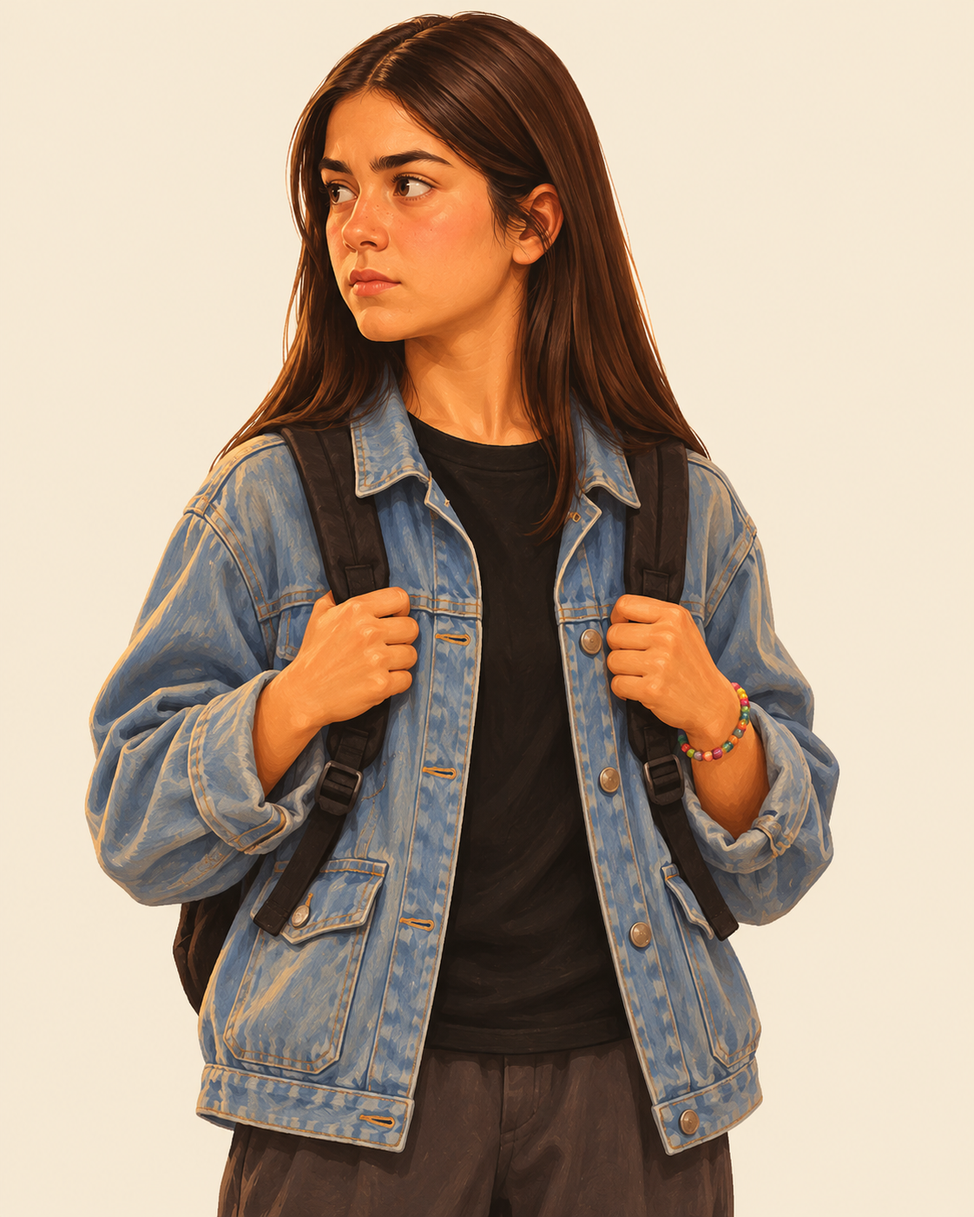
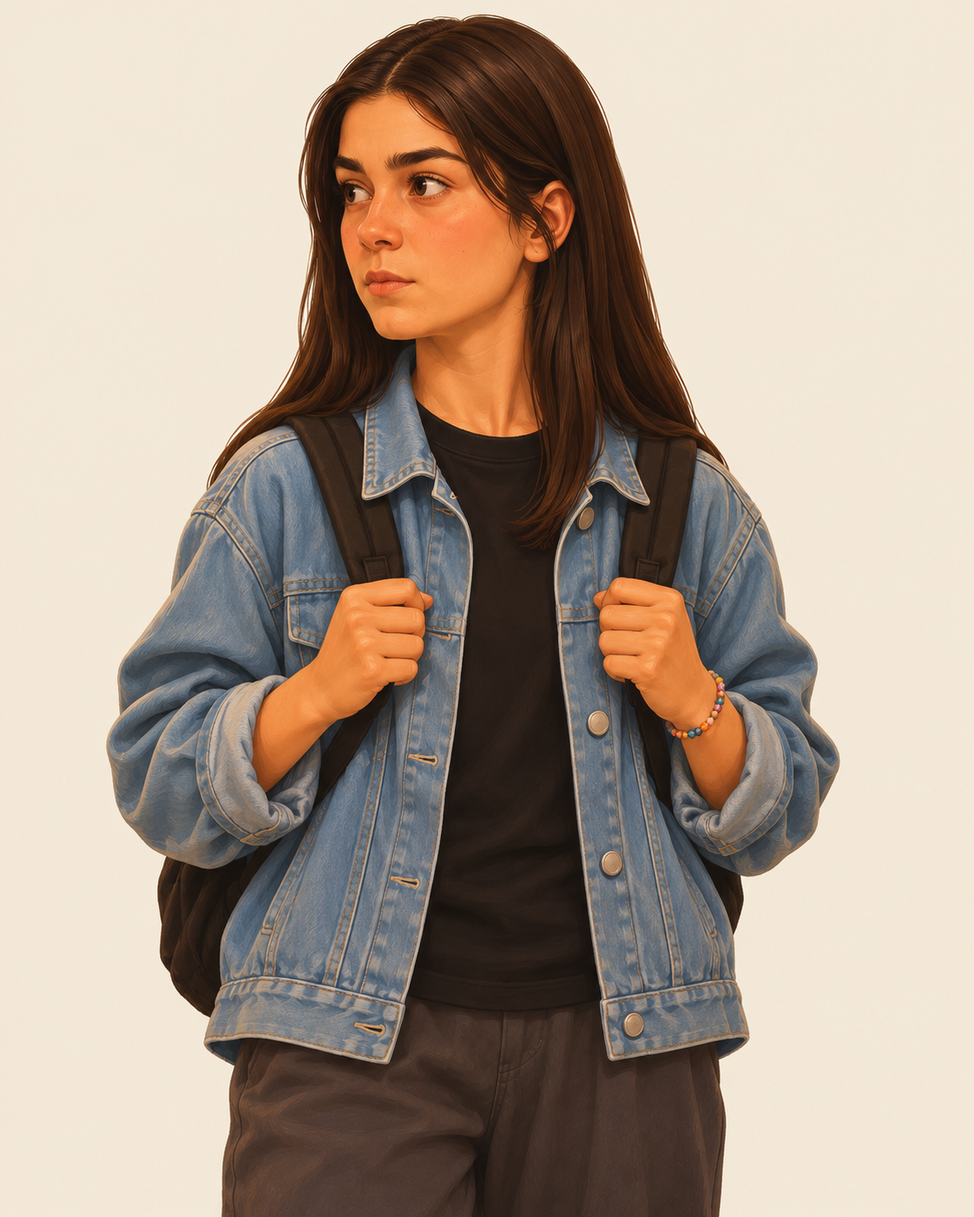
Gün sonu: kurulum notu (Oğuz Bey'in bilgisayarı: klasör yapısı, Codex ayarı, red/ kopyası), kumaş dersi §11, DURUM/DEVIR güncel; G6/G18 onaylı

Changed region(s): [[0.0624, 0.0, 0.8734, 1.0], [0.5615, 0.9508, 0.5927, 1.0]]

diff --git a/uretim/v6/kayit/kol1.md b/uretim/v6/kayit/kol1.md
@@ -40,3 +40,5 @@
 | G46 | image_gen / model bildirilmedi | Birinci referans görseldeki kişinin (Haldun Bey) AYNISI: aynı yüz, saç, kıyafet ve takılar; aynı çizim tarzı, aynı düz açık bej arka plan, aynı ölçek ve kadraj. Değişen yalnız poz ve ifade.<br><br>Poz: TAM İKİ KOL, İKİ EL. Sağ eli açık, avucu yukarı, göğüs hizasında ("saklayacak bir şeyim yok"); sol eli gövdesinin yanında. Elleri boş.<br><br>Başın açısı: burnu kadrajın soluna bakıyor; yüzü üç çeyrek, iki göz de görünüyor. Gözler kadrajın soluna, yatay bakıyor; yukarı, aşağı ya da kameraya değil. Profil değil: uzaktaki göz de açıkça görünüyor.<br><br>İfade: dertli, sıkışmış, savunmada; kaşları içten yukarı, alnında ince ter damlaları, dudakları gergin.<br><br>Bu ifadeyi haldun.normal'den ayıran: alnı terli, kaşlar kalkık ve dertli; eli avucu yukarı açık.<br><br>Saçın dış çizgisi toplu ve net: arka plana taşan ince tek teller, havada kıvrılan uçlar yok.<br><br>Kadraj: DİKEY 4:5. Tek kişi, ayakta, kadrajın ortasında. Uyluk ortasından yukarısı; başın tepesinin üstünde ince bir boşluk. Arka plan: düz, tek renk açık bej; gölgesiz, dokusuz, lekesiz, renk geçişi yok (bilgisayarda doldurulmuş tek renk gibi); hiçbir nesne yok.<br><br>Çıplaklık yok.<br><br>Görselde hiçbir yazı, harf, rakam, logo ya da etiket olmasın.<br><br>Görselin oranı TAM 4:5, dikey (1122×1402). | 1. onayli/G5.png | 1122×1402; kalite bildirilmedi | Evet | Başarılı; uretilen/G46.png; 2026-11-13 |
 | G18 | image_gen / model bildirilmedi | Birinci referans Cengo'nun onaylı eski resmidir: yüz, koyu dalgalı dağınık saç, kısa sakal, boyalı çizim tarzı, sıcak ışık ve renkler ONUN GİBİ olsun. Oradaki kıyafeti (haki ceket, gri tişört) ve pozu ALMA. Bu resim katalog ya da moda çizimi DEĞİL: kalın siyah kontur, düz boya, soğuk stüdyo ışığı yok; birinci referanstaki gibi boyalı, sıcak, dokulu. Aynı düz açık bej arka plan, aynı ölçek ve kadraj.<br><br>İkinci referans kıyafet kartıdır: YALNIZ kıyafetin kesimi, boyu ve rengi içindir; kartın çizim tarzını, ışığını, yüzünü ve pozunu ALMA.<br><br>Cengo: otuzlarının ortasında, uzun boylu, yakışıklı, genelde dağınık bir adam; bugün ilk kez özenle giyinmiş, biraz da gergin.<br><br>Kıyafet: kart referansındaki ütülü hâl: açık mavi, kolalı, düğmeleri boğaza kadar ilikli gömlek pantolonun içinde; koyu lacivert kumaş pantolon, kahverengi deri kemer; göğüs cebinde telefonun üst kenarı. Saçı yana TARANMIŞ ama gür ve dalgalı. Kadrajın SAĞ tarafında kalan bileğinde renkli boncuklu, ucuz, çocuk işi bileklik. Ceket YOK, kravat YOK.<br><br>Poz: TAM İKİ KOL, İKİ EL. Bir eli gömleğin yakasını düzeltir gibi boynunda, öbür eli gövdesinin yanında gevşek. Elleri boş.<br><br>Başın açısı: burnu kadrajın soluna bakıyor; yüzü üç çeyrek, iki göz de görünüyor. Gözler kadrajın soluna, yatay bakıyor; yukarı, aşağı ya da kameraya değil. Profil değil: uzaktaki göz de açıkça görünüyor.<br><br>İfade: hafif gergin ama sıcak; dudakları kapalı, utangaç bir yarım gülümseme.<br><br>Kadraj: DİKEY 4:5. Tek kişi, ayakta, kadrajın ortasında. Uyluk ortasından yukarısı; başın tepesinin üstünde ince bir boşluk. Arka plan: düz, tek renk açık bej; gölgesiz, dokusuz, lekesiz, renk geçişi yok (bilgisayarda doldurulmuş tek renk gibi); hiçbir nesne yok.<br><br>Çıplaklık yok.<br><br>Son referans YALNIZ bitmiş çizim tarzı örneğidir: boya dokusu, ince kontur, yumuşak gölgeler, yüz çiziminin gerçekçiliği, renkler ve ölçek onun gibi olsun. Oradaki kişinin yüzünü, saçını, kıyafetini ve pozunu ALMA. Karikatür değil: doğal yüz oranları, abartısız ifade.<br><br>Görselde hiçbir yazı, harf, rakam, logo ya da etiket olmasın.<br><br>Görselin oranı TAM 4:5, dikey (1122×1402).<br><br>Sahibi buldu (13 Kasım): gömlek her yerde küçük köşeli kırışıklarla, buruşturulmuş kâğıt/folyo gibi çıktı; oysa bu ÜTÜLÜ, kolalı gömlek. Gömlek kusursuz ütülü, PÜRÜZSÜZ ve kolalı, ikinci referanstaki kart gibi; kırışık yok, kâğıt ya da folyo dokusu yok; yalnız koltuk altında ve dirsekte hafif doğal kıvrım. Yüz, tarz, poz ve ifade aynı. | 1. ../v3/onayli/G4.png; 2. onayli/G2.png; 3. ../referanslar/tarz_ornek_erkek.jpg | 1122×1402; kalite bildirilmedi | Evet; İstem ve Düzeltme 1 aynen | 2026-11-13: başarılı; uretilen/G18.png |
 | G18 | image_gen / model bildirilmedi | Birinci referans Cengo'nun onaylı eski resmidir: yüz, koyu dalgalı dağınık saç, kısa sakal, boyalı çizim tarzı, sıcak ışık ve renkler ONUN GİBİ olsun. Oradaki kıyafeti (haki ceket, gri tişört) ve pozu ALMA. Bu resim katalog ya da moda çizimi DEĞİL: kalın siyah kontur, düz boya, soğuk stüdyo ışığı yok; birinci referanstaki gibi boyalı, sıcak, dokulu. Aynı düz açık bej arka plan, aynı ölçek ve kadraj.<br><br>İkinci referans kıyafet kartıdır: YALNIZ kıyafetin kesimi, boyu ve rengi içindir; kartın çizim tarzını, ışığını, yüzünü ve pozunu ALMA.<br><br>Cengo: otuzlarının ortasında, uzun boylu, yakışıklı, genelde dağınık bir adam; bugün ilk kez özenle giyinmiş, biraz da gergin.<br><br>Kıyafet: kart referansındaki ütülü hâl: açık mavi, kolalı, düğmeleri boğaza kadar ilikli gömlek pantolonun içinde; koyu lacivert kumaş pantolon, kahverengi deri kemer; göğüs cebinde telefonun üst kenarı. Saçı yana TARANMIŞ ama gür ve dalgalı. Kadrajın SAĞ tarafında kalan bileğinde renkli boncuklu, ucuz, çocuk işi bileklik. Ceket YOK, kravat YOK.<br><br>Poz: TAM İKİ KOL, İKİ EL. Bir eli gömleğin yakasını düzeltir gibi boynunda, öbür eli gövdesinin yanında gevşek. Elleri boş.<br><br>Başın açısı: burnu kadrajın soluna bakıyor; yüzü üç çeyrek, iki göz de görünüyor. Gözler kadrajın soluna, yatay bakıyor; yukarı, aşağı ya da kameraya değil. Profil değil: uzaktaki göz de açıkça görünüyor.<br><br>İfade: hafif gergin ama sıcak; dudakları kapalı, utangaç bir yarım gülümseme.<br><br>Kadraj: DİKEY 4:5. Tek kişi, ayakta, kadrajın ortasında. Uyluk ortasından yukarısı; başın tepesinin üstünde ince bir boşluk. Arka plan: düz, tek renk açık bej; gölgesiz, dokusuz, lekesiz, renk geçişi yok (bilgisayarda doldurulmuş tek renk gibi); hiçbir nesne yok.<br><br>Çıplaklık yok.<br><br>Son referans YALNIZ bitmiş çizim tarzı örneğidir: boya dokusu, ince kontur, yumuşak gölgeler, yüz çiziminin gerçekçiliği, renkler ve ölçek onun gibi olsun. Oradaki kişinin yüzünü, saçını, kıyafetini ve pozunu ALMA. Karikatür değil: doğal yüz oranları, abartısız ifade.<br><br>Görselde hiçbir yazı, harf, rakam, logo ya da etiket olmasın.<br><br>Görselin oranı TAM 4:5, dikey (1122×1402).<br><br>Sahibi buldu (13 Kasım): gömlek her yerde küçük köşeli kırışıklarla, buruşturulmuş kâğıt/folyo gibi çıktı; oysa bu ÜTÜLÜ, kolalı gömlek. Gömlek kusursuz ütülü, PÜRÜZSÜZ ve kolalı, ikinci referanstaki kart gibi; kırışık yok, kâğıt ya da folyo dokusu yok; yalnız koltuk altında ve dirsekte hafif doğal kıvrım. Yüz, tarz, poz ve ifade aynı.<br><br>Sahibi (13 Kasım): saç birinci referanstaki gibi KOYU kahve, siyaha yakın olsun; sıcak ışık saçın rengini AÇMASIN, kızıla çalan açık kahve değil. Gömlek pürüzsüz ütülü kalsın ve gömlekte fırça darbesi bir tık daha AZ olsun: düz, yumuşak geçişli kumaş; boya dokusu yüzde ve saçta. Yüz, tarz, poz ve ifade aynı. | 1. ../v3/onayli/G4.png; 2. onayli/G2.png; 3. ../referanslar/tarz_ornek_erkek.jpg | 1122×1402; kalite bildirilmedi | Evet; İstem ve Düzeltme 1–2 aynen | 2026-11-13: başarılı; uretilen/G18.png |
+| G6 | image_gen / model bildirilmedi | Yarı gerçekçi dijital illüstrasyon, boyalı görsel roman karakter çizimi. Gerçek insan oranları, ama fotoğraf değil: belirgin, temiz kontur çizgileri, yumuşak boyalı gölgeler, sıcak ve canlı renkler. Animasyon filmi afişi ile modern çizgi roman arası bir tarz. Anime değil, çocuk çizgi filmi değil, fotoğraf değil.<br><br>Birinci referans YALNIZ ölçek ve kadraj içindir. Başı bilerek silindi: yüzü sıfırdan, aşağıdaki tarife göre çiz; referanstaki kişinin bedenini, kıyafetini ve POZUNU alma. İkinci referans YALNIZ çizim tarzı içindir: genç bir yüz ONUN GİBİ boyansın: sıcak ten tonları, yumuşak boyalı gölgeler, ince kontur, canlı ama doğal renkler; oradaki kişinin yüzünü, saçını, kıyafetini ve pozunu ALMA. Bu yepyeni, kimseye benzemeyen bir kişi.<br><br>Eylül: on altı yaşında bir lise öğrencisi, Cengo'nun kızı. Boyu ortalama, ince, genç bir kız; yüzü yuvarlakça ve taze. Uzun, DÜZ, koyu kahve saç, açık, omuzlarının altına iniyor; ortadan ayrılmış. Koyu kahve gözler, kalın düz kaşlar (babasınınkiler gibi), makyajsız. Kıyafeti: açık mavi, bol kesim kot ceket, önü açık; altında yuvarlak yakalı, boğazı kapalı, düz SİYAH tişört; koyu gri, bol kesim düz pantolon. Sırtında küçük siyah sırt çantası, iki askısı omuzlarında. Kadrajın SAĞ tarafında kalan bileğinde renkli boncuklu, ucuz, çocuk işi bir bileklik. Küpe, kolye YOK. Defne'ye (uzun KIVIRCIK koyu saçlı yetişkin bir kadın) benzemiyor; Gizem'e (bal rengi kâküllü saç, çil) ve Dilek'e (kısa küt siyah kâküllü saç) benzemiyor.<br><br>Eylül on altı yaşında bir lise öğrencisidir: yaşına uygun, sade, gündelik bir duruş; makyaj yok; kıyafeti kapalı ve bol.<br><br>Poz: TAM İKİ KOL, İKİ EL. İki eli sırt çantasının askılarını göğüs hizasında tutuyor; elleri boş, başka nesne yok.<br><br>Başın açısı: burnu kadrajın soluna bakıyor; yüzü üç çeyrek, iki göz de görünüyor. Gözler kadrajın soluna, yatay bakıyor; yukarı, aşağı ya da kameraya değil. Profil değil: uzaktaki göz de açıkça görünüyor.<br><br>İfade: ciddi, kararlı, biraz çekingen; dudakları kapalı. Bir derdi var ama dimdik duruyor.<br><br>Işık sıcak ve yumuşak, yüzünde hafif altın bir ton; resim soluk ya da fotoğraf gibi değil, öbür konuklarla aynı boyalı illüstrasyon.<br><br>Saçın dış çizgisi toplu ve net: arka plana taşan ince tek teller, havada kıvrılan uçlar yok.<br><br>Kadraj: DİKEY 4:5. Tek kişi, ayakta, kadrajın ortasında. Uyluk ortasından yukarısı; başın tepesinin üstünde ince bir boşluk. Arka plan: düz, tek renk açık bej; gölgesiz, dokusuz, lekesiz, renk geçişi yok (bilgisayarda doldurulmuş tek renk gibi); hiçbir nesne yok.<br><br>Çıplaklık yok.<br><br>Son referans YALNIZ bitmiş çizim tarzı örneğidir: boya dokusu, ince kontur, yumuşak gölgeler, yüz çiziminin gerçekçiliği, renkler ve ölçek onun gibi olsun. Oradaki kişinin yüzünü, saçını, kıyafetini ve pozunu ALMA. Karikatür değil: doğal yüz oranları, abartısız ifade.<br><br>Görselde hiçbir yazı, harf, rakam, logo ya da etiket olmasın.<br><br>Görselin oranı TAM 4:5, dikey (1122×1402).<br><br>arac_tarz.py ŞÜPHELİ (tarz puanı +0,011; çapa konuk en düşük +0,040): hâlâ fazla gerçekçi ve soluk. Çizim tarzı belirgin biçimde BOYALI olsun: görünür yumuşak fırça darbeleri, dokulu boya, sıcak altın ışık, canlı ama doğal renkler; ikinci referanstaki Dilek gibi bir illüstrasyon, fotoğraf gerçekçiliğinde DEĞİL. Yüz, saç, kıyafet ve poz aynı kalsın.<br><br>Tarz bir adım daha eski konuklara (Gizem, Defne) yaklaşsın: daha pürüzsüz, parlak, yumuşak geçişli boya; cilt dokusu (gözenek, çil) çok az; sıcak altın ışık. Yüz, saç, kıyafet ve poz aynı; makyaj yine YOK, yaşına uygun sade.<br><br>Sahibi (13 Kasım, G18 ayarıyla): kot ceket ve pantolonda fırça dokusu bir tık AZ; kumaş pürüzsüz, yumuşak geçişli (köşeli zikzak fırça izi yok). Boya dokusu yüzde ve saçta kalsın. Saç koyu kahve, sıcak ışık saçı açmasın. Yüz, poz, ifade aynı; makyaj yok. | 1. ../referanslar/tarz_govde_kadin.jpg; 2. onayli/G8.png; 3. ../referanslar/tarz_ornek_kadin.jpg | 1122×1402; kalite bildirilmedi | Evet; İstem ve Düzeltme 1–3 aynen | 2026-11-13: başarılı; uretilen/G6.png |
+| G42 | image_gen / model bildirilmedi | Birinci referans görseldeki kişinin (Eylül) AYNISI: aynı yüz, saç, kıyafet ve takılar; aynı çizim tarzı, aynı düz açık bej arka plan, aynı ölçek ve kadraj. Değişen yalnız poz ve ifade.<br><br>Eylül on altı yaşında bir lise öğrencisidir: yaşına uygun, sade, gündelik bir duruş; makyaj yok; kıyafeti kapalı ve bol.<br><br>Poz: TAM İKİ KOL, İKİ EL. İki kolu öne, yarı açık, sarılmaya gidecekmiş gibi; sırt çantası sırtında. Elleri boş.<br><br>Başın açısı: burnu kadrajın soluna bakıyor; yüzü üç çeyrek, iki göz de görünüyor. Gözler kadrajın soluna, yatay bakıyor; yukarı, aşağı ya da kameraya değil. Profil değil: uzaktaki göz de açıkça görünüyor.<br><br>İfade: sevinçli, heyecanlı, gözleri parlıyor; geniş, içten, çocuksu bir gülüş.<br><br>Bu ifadeyi eylul.gulen'den ayıran: kollar açık, coşkulu, babasını görmenin sevinci; daha büyük bir gülüş.<br><br>Saçın dış çizgisi toplu ve net: arka plana taşan ince tek teller, havada kıvrılan uçlar yok.<br><br>Kadraj: DİKEY 4:5. Tek kişi, ayakta, kadrajın ortasında. Uyluk ortasından yukarısı; başın tepesinin üstünde ince bir boşluk. Arka plan: düz, tek renk açık bej; gölgesiz, dokusuz, lekesiz, renk geçişi yok (bilgisayarda doldurulmuş tek renk gibi); hiçbir nesne yok.<br><br>Çıplaklık yok.<br><br>Görselde hiçbir yazı, harf, rakam, logo ya da etiket olmasın.<br><br>Görselin oranı TAM 4:5, dikey (1122×1402).<br><br>Sahibi (13 Kasım): temel G6 yeni ayarla yeniden üretildi; bu ifade de aynı ayarla: kot ceket ve pantolonda fırça dokusu AZ, kumaş pürüzsüz ve yumuşak geçişli (köşeli zikzak fırça izi yok); boya dokusu yüzde ve saçta; saç koyu kahve. Poz ve ifade istemdeki gibi. | 1. onayli/G6.png | 1122×1402; kalite bildirilmedi | Evet; İstem ve Düzeltme 1 aynen | 2026-11-13: başarılı; uretilen/G42.png |

diff --git a/uretim/KURULUM_ORTAK.md b/uretim/KURULUM_ORTAK.md
@@ -1,29 +1,58 @@
 # Resim üretimi — Oğuz Bey'in bilgisayarına kurulum
 
-13 Kasım 2026, Barbaros'un isteği: resim üretimi genelde Oğuz Bey'in bilgisayarında yapılacak; orada da bu bilgisayardaki
-programlar kurulacak. **Kurulumu yalnız Barbaros yapar.** Claude bu dosyayı ancak Barbaros o bilgisayarın başında "resim üretim
-programlarını kurdurt" deyince açar; Oğuz Bey'in oturumlarında bu konuyu kendiliğinden açmaz. Adımları sırayla uygulat; her adımın
-sonundaki "Doğrula" komutu geçmeden sonrakine geçme. Bitince bu dosyanın sonuna tarih + "kuruldu" yaz.
+13 Kasım 2026, Barbaros'un isteği: resim üretimi genelde Oğuz Bey'in bilgisayarında, **Oğuz Bey'in ChatGPT hesabıyla** yapılacak;
+orada da bu bilgisayardaki programlar ve `Paravan` klasörünün yapısı kurulacak. **Kurulumu yalnız Barbaros yapar.** Claude bu
+dosyayı ancak Barbaros o bilgisayarın başında "kurulumla başla" / "resim üretim programlarını kurdurt" deyince açar; Oğuz Bey'in
+oturumlarında bu konuyu kendiliğinden açmaz. Adımları sırayla uygulat; her adımın sonundaki **Doğrula** geçmeden sonrakine geçme.
+Bitince en alttaki "Kayıt"a tarih + "kuruldu" yaz, commit → `git push origin HEAD:main`.
 
-Ortağın bilgisayarında zaten olanlar (11 Kasım 2026, `kaynak/DEVIR.md`): Node.js 26.13, Python 3.12, Git, depo
-`C:\Yazilim\paravan` (D: sürücüsü YOK — yollarda `D:\Yazilim` yerine `C:\Yazilim`), Playwright + Chromium, Codex CLI 0.167.1
-(**giriş yapılmamış**).
+**Ortağın bilgisayarında zaten olanlar** (11 Kasım 2026, `kaynak/DEVIR.md`): Node.js 26.13, Python 3.12, Git (Git Bash), depo
+`C:\Yazilim\paravan` (D: sürücüsü YOK — bütün yollarda `D:\Yazilim` yerine `C:\Yazilim`; Git Bash'te `/c/Yazilim/paravan`),
+Playwright + Chromium (`araclar/`), Codex CLI 0.167.1 (**giriş yapılmamış**).
 
-Barbaros'un bilgisayarında (referans sürümler, 13 Kasım 2026): ImageMagick 7.1.2-34 · Python 3.12.10 · Pillow 13.0 · numpy 2.5 ·
-PyTorch (CPU) + torchvision · Git 2.55 (Git Bash) · Codex CLI 0.167.0 · Node 26.13.
+**Barbaros'un bilgisayarında (referans, 13 Kasım 2026):** ImageMagick 7.1.2-34 · Python 3.12.10 · Pillow 13.0 · numpy 2.5 ·
+PyTorch 2.15 (CPU) + torchvision 0.29 · open_clip_torch 4.2 · Git 2.55 · Codex CLI 0.167.0 · Node 26.13.
 
-## 1. Codex'e giriş (resimleri Codex üretir)
+## 0. Depo güncel
 
-PowerShell'de: `codex login` → tarayıcıda ChatGPT hesabıyla giriş (Plus ya da üstü; resim kotası bu hesaptan düşer).
-Hangi hesabın kullanılacağına Barbaros karar verir.
-**Doğrula:** `codex login status` → giriş yapılmış hesap görünür.
+Git Bash'te: `cd /c/Yazilim/paravan && git pull origin main` (yalnız `main`).
+**Doğrula:** `git log --oneline -1` → Barbaros'un bilgisayarındakiyle aynı commit (Barbaros `git log --oneline -1` ile söyler).
 
-## 2. ImageMagick (kırpma, şerit, karşılaştırma sayfaları — `magick` komutu)
+## 1. Klasör yapısı — GitHub'la GELMEYEN parçalar
+
+Depo (`git pull`) her şeyi getirir; şunlar bilerek depoda değil, elle kurulur:
+
+| ne | nereye | nasıl |
+|---|---|---|
+| `uretim/v6/red/` (reddedilenler, ~72 MB; tarz aracının sınavı buradaki `*_stil.png`'yi okur) | `C:\Yazilim\paravan\uretim\v6\red\` | Barbaros'un bilgisayarından USB/Drive ile **bütün klasör** |
+| `uretim/v3/red/` (~127 MB) | — | GEREKMEZ (eski vaka) |
+| döngü kayıt klasörü (`DONGU_LOG`) | `C:\Yazilim\paravan_log\` (depo DIŞINDA) | `mkdir C:\Yazilim\paravan_log` |
+| `kaynak/YENI_UI/` | — | araçlar kendisi üretir |
+| `C:\lora\` | — | GEREKMEZ (tarz çapası depoda: `uretim/referanslar/tarz_capa/`) |
+
+**Doğrula:** `ls /c/Yazilim/paravan/uretim/v6/red/*_stil.png | wc -l` → en az 8.
+
+## 2. Codex: giriş + bu proje için ayar (resimleri Codex üretir)
+
+1. PowerShell'de `codex login` → tarayıcıda **Oğuz Bey'in** ChatGPT hesabıyla giriş (Plus ya da üstü; resim kotası bu hesaptan düşer).
+2. Codex'in ayar dosyasına (`%USERPROFILE%\.codex\config.toml`; yoksa oluştur) bu iki bölümü ekle — döngü Codex'i soru soramadan
+   (`codex exec … < /dev/null`) çalıştırır; proje "güvenilir" değilse takılır ya da reddeder:
+   ```
+   [windows]
+   sandbox = "elevated"
+
+   [projects.'c:\yazilim\paravan']
+   trust_level = "trusted"
+   ```
+3. Bir kez elle dene (kota harcamaz): Git Bash'te `cd /c/Yazilim/paravan/uretim/v6 && codex exec --approve-for-me "Yalnız 'hazır' yaz." < /dev/null`
+**Doğrula:** `codex login status` → Oğuz Bey'in hesabı; 3. adım "hazır" ile biter, izin sorusunda takılmaz.
+
+## 3. ImageMagick (kırpma, şerit, karşılaştırma sayfaları — `magick` komutu)
 
 `winget install ImageMagick.ImageMagick` (kurulumda "Add to PATH" açık kalsın), sonra terminali kapatıp aç.
 **Doğrula:** `magick -version` → "ImageMagick 7…".
 
-## 3. Python paketleri
+## 4. Python paketleri
 
 ```
 python -m pip install pillow numpy
@@ -31,27 +60,28 @@ python -m pip install torch torchvision --index-url https://download.pytorch.org
 python -m pip install open_clip_torch
 ```
 (PyTorch CPU sürümü; ekran kartı gerekmez. İndirme birkaç yüz MB.)
-**Doğrula:** `python -c "import PIL, numpy, torch, torchvision; print(torch.__version__)"`
+**Doğrula:** `python -c "import PIL, numpy, torch, torchvision, open_clip; print(torch.__version__)"`
 
-## 4. Tarz denetim aracının model dosyası (ilk çalıştırmada kendiliğinden iner)
+## 5. Tarz denetim aracı (ilk çalıştırmada modeli indirir)
 
-`kaynak/arac_tarz.py` ilk koşuşta CLIP modelini (ViT-B-32, ~600 MB) Hugging Face'ten `%USERPROFILE%\.cache\huggingface`
-altına indirir (birkaç dakika). Çapa resimleri depoda (`uretim/referanslar/tarz_capa/`); `C:\lora` gerekmez.
-**Doğrula:** `cd C:\Yazilim\paravan\kaynak` → `python arac_tarz.py --sinav` → "SINAV GEÇTİ". **Dikkat:** sınav kaymış örnekleri
-`uretim/v6/red/*_stil.png`'den okur ve `red/` GitHub'a gitmez → sınavdan önce Barbaros'un bilgisayarındaki
-`uretim/v6/red/` içinden `G2_stil.png`, `G18_stil.png`, `G34_stil.png`–`G39_stil.png` (8 dosya) aynı klasöre kopyalanır (USB/Drive).
+`kaynak/arac_tarz.py` ilk koşuşta CLIP modelini (ViT-B-32, ~600 MB) Hugging Face'ten `%USERPROFILE%\.cache\huggingface` altına
+indirir (birkaç dakika; "HF_TOKEN" uyarısı zararsız). Çapa resimleri depoda (`uretim/referanslar/tarz_capa/`).
+**Doğrula:** `cd /c/Yazilim/paravan/kaynak && python arac_tarz.py --sinav` → son satır **"SINAV GEÇTİ"** (kaymış 8/8, iyi 42/42).
+Geçmezse 1. adımdaki `red/` kopyasını kontrol et.
 
-## 5. Döngü (Git Bash'te)
+## 6. Döngü (Git Bash'te)
 
-`uretim/dongu.sh` Git Bash ister (`timeout`, `date -d`, `mkdir` kilidi). Git for Windows ile gelir.
-**Doğrula:** Git Bash'te `cd /c/Yazilim/paravan/uretim && ./istem_kontrol.sh v6/prompts/G3.md; echo $?` → `0`.
+`uretim/dongu.sh` Git Bash ister (`timeout`, `date -d`, `mkdir` kilidi). Her yeni resim gelince `arac_tarz.py`'yi kendisi koşar.
+**Doğrula:** `cd /c/Yazilim/paravan/uretim && ./istem_kontrol.sh v6/prompts/G34.md; echo $?` → `0`.
 Döngüyü sahte Codex'le denerken PATH'e Windows yolu (`C:/…`) VERME (`uretim/CLAUDE.md` → Tuzak).
 
-## 6. Son kontrol
+## 7. Son kontrol ve tek resimlik deneme
 
-- `git pull` (yalnız `main`).
-- `cd kaynak && node dogrulayici.js yeni && node dogrulayici.js` → ikisi de PASS.
-- Bir resimle deneme: Barbaros'un onayıyla tek bir istem `SADECE="<n>"` ile üretilir, `arac_tarz.py` ile denetlenir.
+- `cd /c/Yazilim/paravan/kaynak && node dogrulayici.js yeni && node dogrulayici.js` → ikisi de PASS.
+- Barbaros'un onayıyla TEK resim: `cd /c/Yazilim/paravan/uretim && KOL=1 SADECE="47" DONGU_LOG=/c/Yazilim/paravan_log ./dongu.sh 6`
+  → `uretilen/G47.png` gelir, çıktıda `G47 TARZ: …` satırı görünür. Resim `uretim/CLAUDE.md` → Denetim ile denetlenir.
+- Kota kaydı: Oğuz Bey'in hesabının ChatGPT → Ayarlar → Kullanım değerleri `uretim/v6/DURUM.md` → Kota kaydı tablosuna yazılır
+  (hesap değişti: önceki satırlarla toplanmaz).
 
 ## Kayıt
 

diff --git a/uretim/v6/kayit/kol2.md b/uretim/v6/kayit/kol2.md
@@ -32,3 +32,4 @@
 | G44 | image_gen / model bildirilmedi | Birinci referans görseldeki kişinin (Eylül) AYNISI: aynı yüz, saç, kıyafet ve takılar; aynı çizim tarzı, aynı düz açık bej arka plan, aynı ölçek ve kadraj. Değişen yalnız poz ve ifade.<br><br>Eylül on altı yaşında bir lise öğrencisidir: yaşına uygun, sade, gündelik bir duruş; makyaj yok; kıyafeti kapalı ve bol.<br><br>Poz: TAM İKİ KOL, İKİ EL. Bir eli sırt çantasının askısında, öbürü gövdesinin yanında gevşek. Elleri boş.<br><br>Başın açısı: burnu kadrajın soluna bakıyor; yüzü üç çeyrek, iki göz de görünüyor. Gözler kadrajın soluna, yatay bakıyor; yukarı, aşağı ya da kameraya değil. Profil değil: uzaktaki göz de açıkça görünüyor.<br><br>İfade: rahatlamış, sıcak, minnettar bir gülümseme; utangaç ama mutlu.<br><br>Bu ifadeyi eylul.sevincli'den ayıran: coşku yok, sakin ve sıcak bir gülümseme; kollar kapalı.<br><br>Saçın dış çizgisi toplu ve net: arka plana taşan ince tek teller, havada kıvrılan uçlar yok.<br><br>Kadraj: DİKEY 4:5. Tek kişi, ayakta, kadrajın ortasında. Uyluk ortasından yukarısı; başın tepesinin üstünde ince bir boşluk. Arka plan: düz, tek renk açık bej; gölgesiz, dokusuz, lekesiz, renk geçişi yok (bilgisayarda doldurulmuş tek renk gibi); hiçbir nesne yok.<br><br>Çıplaklık yok.<br><br>Görselde hiçbir yazı, harf, rakam, logo ya da etiket olmasın.<br><br>Görselin oranı TAM 4:5, dikey (1122×1402). | 1. onayli/G6.png | 1122×1402; kalite bildirilmedi | Evet, aynen | Başarılı; uretilen/G44.png; 2026-11-13 |
 | G45 | image_gen / model bildirilmedi | Birinci referans görseldeki kişinin (Eylül) AYNISI: aynı yüz, saç, kıyafet ve takılar; aynı çizim tarzı, aynı düz açık bej arka plan, aynı ölçek ve kadraj. Değişen yalnız poz ve ifade.<br><br>Eylül on altı yaşında bir lise öğrencisidir: yaşına uygun, sade, gündelik bir duruş; makyaj yok; kıyafeti kapalı ve bol.<br><br>Poz: TAM İKİ KOL, İKİ EL. İki eli sırt çantasının askılarını sıkıca tutuyor; omuzları düşük.<br><br>Başın açısı: burnu kadrajın soluna bakıyor; yüzü üç çeyrek, iki göz de görünüyor. Gözler kadrajın soluna, yatay bakıyor; yukarı, aşağı ya da kameraya değil. Profil değil: uzaktaki göz de açıkça görünüyor.<br><br>İfade: üzgün, kırgın, ağlamaya yakın ama ağlamıyor; kaşları içten yukarı, dudakları titrek, gözleri nemli.<br><br>Bu ifadeyi eylul.normal'den ayıran: kararlılık yok, kaşlar içten yukarı, gözler nemli; omuzlar düşük.<br><br>Saçın dış çizgisi toplu ve net: arka plana taşan ince tek teller, havada kıvrılan uçlar yok.<br><br>Kadraj: DİKEY 4:5. Tek kişi, ayakta, kadrajın ortasında. Uyluk ortasından yukarısı; başın tepesinin üstünde ince bir boşluk. Arka plan: düz, tek renk açık bej; gölgesiz, dokusuz, lekesiz, renk geçişi yok (bilgisayarda doldurulmuş tek renk gibi); hiçbir nesne yok.<br><br>Çıplaklık yok.<br><br>Görselde hiçbir yazı, harf, rakam, logo ya da etiket olmasın.<br><br>Görselin oranı TAM 4:5, dikey (1122×1402). | 1. onayli/G6.png | boyut/kalite bildirilmedi | Evet, aynen | 2026-11-13; 1. çağrı: moderation_blocked; output/other; güvenlik sistemi reddetti |
 | G45 | image_gen / model bildirilmedi | Birinci referans görseldeki kişinin (Eylül) AYNISI: aynı yüz, saç, kıyafet ve takılar; aynı çizim tarzı, aynı düz açık bej arka plan, aynı ölçek ve kadraj. Değişen yalnız poz ve ifade.<br><br>Eylül on altı yaşında bir lise öğrencisidir: yaşına uygun, sade, gündelik bir duruş; makyaj yok; kıyafeti kapalı ve bol.<br><br>Poz: TAM İKİ KOL, İKİ EL. İki eli sırt çantasının askılarını sıkıca tutuyor; omuzları düşük.<br><br>Başın açısı: burnu kadrajın soluna bakıyor; yüzü üç çeyrek, iki göz de görünüyor. Gözler kadrajın soluna, yatay bakıyor; yukarı, aşağı ya da kameraya değil. Profil değil: uzaktaki göz de açıkça görünüyor.<br><br>İfade: üzgün, kırgın, ağlamaya yakın ama ağlamıyor; kaşları içten yukarı, dudakları titrek, gözleri nemli.<br><br>Bu ifadeyi eylul.normal'den ayıran: kararlılık yok, kaşlar içten yukarı, gözler nemli; omuzlar düşük.<br><br>Saçın dış çizgisi toplu ve net: arka plana taşan ince tek teller, havada kıvrılan uçlar yok.<br><br>Kadraj: DİKEY 4:5. Tek kişi, ayakta, kadrajın ortasında. Uyluk ortasından yukarısı; başın tepesinin üstünde ince bir boşluk. Arka plan: düz, tek renk açık bej; gölgesiz, dokusuz, lekesiz, renk geçişi yok (bilgisayarda doldurulmuş tek renk gibi); hiçbir nesne yok.<br><br>Çıplaklık yok.<br><br>Görselde hiçbir yazı, harf, rakam, logo ya da etiket olmasın.<br><br>Görselin oranı TAM 4:5, dikey (1122×1402). | 1. onayli/G6.png | 1122×1402; kalite bildirilmedi | Evet, aynen | 2026-11-13; 2. çağrı başarılı; uretilen/G45.png |
+| G43 | image_gen / model bildirilmedi | Birinci referans görseldeki kişinin (Eylül) AYNISI: aynı yüz, saç, kıyafet ve takılar; aynı çizim tarzı, aynı düz açık bej arka plan, aynı ölçek ve kadraj. Değişen yalnız poz ve ifade.<br><br>Eylül on altı yaşında bir lise öğrencisidir: yaşına uygun, sade, gündelik bir duruş; makyaj yok; kıyafeti kapalı ve bol.<br><br>Poz: TAM İKİ KOL, İKİ EL. Kolları göğsünde kavuşuk, sırt çantası sırtında. Elleri boş.<br><br>Başın açısı: burnu kadrajın soluna bakıyor; yüzü üç çeyrek, iki göz de görünüyor. Gözler kadrajın soluna, yatay; göz kapakları hafif kısık, karşısındakini tepeden tırnağa süzer gibi; kameraya değil. Profil değil.<br><br>İfade: kıskanç, şüpheci, somurtkan bir genç kız: dudakları büzük, kaşları hafif çatık, çenesi havada.<br><br>Bu ifadeyi eylul.normal'den ayıran: kollar kavuşuk, dudaklar büzük, bakış süzen ve şüpheli.<br><br>Saçın dış çizgisi toplu ve net: arka plana taşan ince tek teller, havada kıvrılan uçlar yok.<br><br>Kadraj: DİKEY 4:5. Tek kişi, ayakta, kadrajın ortasında. Uyluk ortasından yukarısı; başın tepesinin üstünde ince bir boşluk. Arka plan: düz, tek renk açık bej; gölgesiz, dokusuz, lekesiz, renk geçişi yok (bilgisayarda doldurulmuş tek renk gibi); hiçbir nesne yok.<br><br>Çıplaklık yok.<br><br>Görselde hiçbir yazı, harf, rakam, logo ya da etiket olmasın.<br><br>Görselin oranı TAM 4:5, dikey (1122×1402).<br><br>Sahibi (13 Kasım): temel G6 yeni ayarla yeniden üretildi; bu ifade de aynı ayarla: kot ceket ve pantolonda fırça dokusu AZ, kumaş pürüzsüz ve yumuşak geçişli (köşeli zikzak fırça izi yok); boya dokusu yüzde ve saçta; saç koyu kahve. Poz ve ifade istemdeki gibi. | 1. onayli/G6.png | 1122×1402; kalite bildirilmedi | Evet, aynen | 2026-11-13; 1. çağrı başarılı; uretilen/G43.png |

diff --git a/uretim/ISTEM_KALIPLARI.md b/uretim/ISTEM_KALIPLARI.md
@@ -158,6 +158,11 @@ istendiği için kayma bütün Cengo setine geçti. Peri'nin kartı (tek kişi, 
   cümlesinin TAMAMI ("Karikatür değil…" dahil). Çekicilik satırı yine yok (§9).
 - **Kartı referans alan her istemde:** "Kart YALNIZ kıyafetin kesimi, boyu ve rengi içindir; kartın çizim tarzını, ışığını, yüzünü
   ve pozunu ALMA." Tarz ve yüz birinci referanstan (boyalı onaylı resim).
+- **Boya dokusu yüzde, kumaş pürüzsüz (13 Kasım 2026, sahibi G18 ve Eylül'de buldu):** "görünür fırça darbesi, dokulu boya" vurgusu
+  düz ve açık renk geniş kumaşta (gömlek, kot) köşeli kırışık / buruşturulmuş kâğıt dokusu yapıyor. Tarz vurgusu yazılırken şöyle
+  ayrılır: "boya dokusu yüzde, saçta ve ışıkta; kumaş pürüzsüz, yumuşak geçişli". Ütülü kıyafete ayrıca "kusursuz ütülü, pürüzsüz";
+  buruşuk kıyafete "doğal kumaş kırışığı, yumuşak kıvrım; folyo/kâğıt gibi köşeli değil". "Sıcak altın ışık" saçı açabilir:
+  koyu saçlı karakterde "ışık saçın rengini açmasın" yazılır (G18'de saç kızıla çalan kahve çıktı).
 - **Yazılımla denetim:** `kaynak/arac_tarz.py` (CLIP tarz puanı, LoRA ve Vaka 1–3 çapası) her resimde gözden önce; kural `uretim/CLAUDE.md` → Denetim 0.
 - **Denetimde tarz maddesi:** her yeni temel ve kart, aynı karakterin eski onaylı resmiyle ve eski konuklarla yan yana; kontur
   kalınlığı, boya dokusu, ışığın sıcaklığı ve yüz eskilerden ayrılıyorsa reddedilir (A.7). Kart da bu denetime girer.

diff --git a/uretim/v6/DURUM.md b/uretim/v6/DURUM.md
@@ -1,5 +1,11 @@
 # Vaka 6 — üretim durumu
 
+**13 Kasım 2026, ~19:45 — GÜN SONU. Yarın Oğuz Bey'in bilgisayarında, onun hesabıyla devam (Barbaros "kurulumla başla" deyince
+`uretim/KURULUM_ORTAK.md`).** G18 (Cengo temeli, 3. deneme) ve G6 (Eylül, kumaş ayarıyla 4. deneme) sahibince ONAYLI. Eylül'ün
+G42–G45'i aynı ayarla yeniden üretildi → `uretilen/`'de, DENETLENMEDİ (araç + göz + sahibine tek sayfa). Sıradaki: G34–G41 (Cengo
+ifadeleri), G47–G60 (konuklar), kareler G61–G85 — hepsi araçtan geçerek; parti sonunda tek sayfa sahibine. Kumaş dersi
+`ISTEM_KALIPLARI.md` §11'de.
+
 **13 Kasım 2026, 19:30 — DURAKLADI (sahibi: ChatGPT 5 saatlik kota %93).** Döngü çalışmıyor. Kaldığımız yer:
 - **Tarz aracı** `kaynak/arac_tarz.py` hazır, sınav GEÇTİ (kaymış 8/8, iyi 42/42), `dongu.sh`'a bağlı; kural `uretim/CLAUDE.md` → Denetim 0.
 - **Sahibince onaylı temeller:** G2 (Cengo ütülü kart), G86 (buruşuk kart, 3. deneme), G6 (Eylül, 3. deneme). Onaylı ifadeler: G42–G46

diff --git a/kaynak/DEVIR.md b/kaynak/DEVIR.md
@@ -12,6 +12,8 @@
 
 **Oğuz Bey (Barbaros, 13 Kasım akşam): Vaka 8'in metin üretimine devam edebilir.**
 
+**Yarın (14 Kasım):** resim üretimi Oğuz Bey'in bilgisayarında ve hesabıyla sürer; Barbaros "kurulumla başla" deyince önce kurulum, sonra üretim. Durum: `uretim/v6/DURUM.md` en üst.
+
 **Kurulum notu (yalnız Barbaros isteyince):** Barbaros Oğuz Bey'in bilgisayarının başına geçip "resim üretim programlarını
 kurdurt" dediğinde `uretim/KURULUM_ORTAK.md`'yi ona adım adım uygulat. Kurulumu yalnız Barbaros yapar; Oğuz Bey'in oturumlarında
 bu konuyu açma (Barbaros, 13 Kasım).

diff --git a/uretim/v6/prompts/G42.md b/uretim/v6/prompts/G42.md
@@ -50,3 +50,7 @@ Görselde hiçbir yazı, harf, rakam, logo ya da etiket olmasın.
 
 Görselin oranı TAM 4:5, dikey (1122×1402).
 ```
+
+## Düzeltme 1
+
+Sahibi (13 Kasım): temel G6 yeni ayarla yeniden üretildi; bu ifade de aynı ayarla: kot ceket ve pantolonda fırça dokusu AZ, kumaş pürüzsüz ve yumuşak geçişli (köşeli zikzak fırça izi yok); boya dokusu yüzde ve saçta; saç koyu kahve. Poz ve ifade istemdeki gibi.

diff --git a/uretim/v6/prompts/G43.md b/uretim/v6/prompts/G43.md
@@ -53,3 +53,7 @@ Görselde hiçbir yazı, harf, rakam, logo ya da etiket olmasın.
 
 Görselin oranı TAM 4:5, dikey (1122×1402).
 ```
+
+## Düzeltme 1
+
+Sahibi (13 Kasım): temel G6 yeni ayarla yeniden üretildi; bu ifade de aynı ayarla: kot ceket ve pantolonda fırça dokusu AZ, kumaş pürüzsüz ve yumuşak geçişli (köşeli zikzak fırça izi yok); boya dokusu yüzde ve saçta; saç koyu kahve. Poz ve ifade istemdeki gibi.

diff --git a/uretim/v6/prompts/G44.md b/uretim/v6/prompts/G44.md
@@ -50,3 +50,7 @@ Görselde hiçbir yazı, harf, rakam, logo ya da etiket olmasın.
 
 Görselin oranı TAM 4:5, dikey (1122×1402).
 ```
+
+## Düzeltme 1
+
+Sahibi (13 Kasım): temel G6 yeni ayarla yeniden üretildi; bu ifade de aynı ayarla: kot ceket ve pantolonda fırça dokusu AZ, kumaş pürüzsüz ve yumuşak geçişli (köşeli zikzak fırça izi yok); boya dokusu yüzde ve saçta; saç koyu kahve. Poz ve ifade istemdeki gibi.

diff --git a/uretim/v6/prompts/G45.md b/uretim/v6/prompts/G45.md
@@ -50,3 +50,7 @@ Görselde hiçbir yazı, harf, rakam, logo ya da etiket olmasın.
 
 Görselin oranı TAM 4:5, dikey (1122×1402).
 ```
+
+## Düzeltme 1
+
+Sahibi (13 Kasım): temel G6 yeni ayarla yeniden üretildi; bu ifade de aynı ayarla: kot ceket ve pantolonda fırça dokusu AZ, kumaş pürüzsüz ve yumuşak geçişli (köşeli zikzak fırça izi yok); boya dokusu yüzde ve saçta; saç koyu kahve. Poz ve ifade istemdeki gibi.
